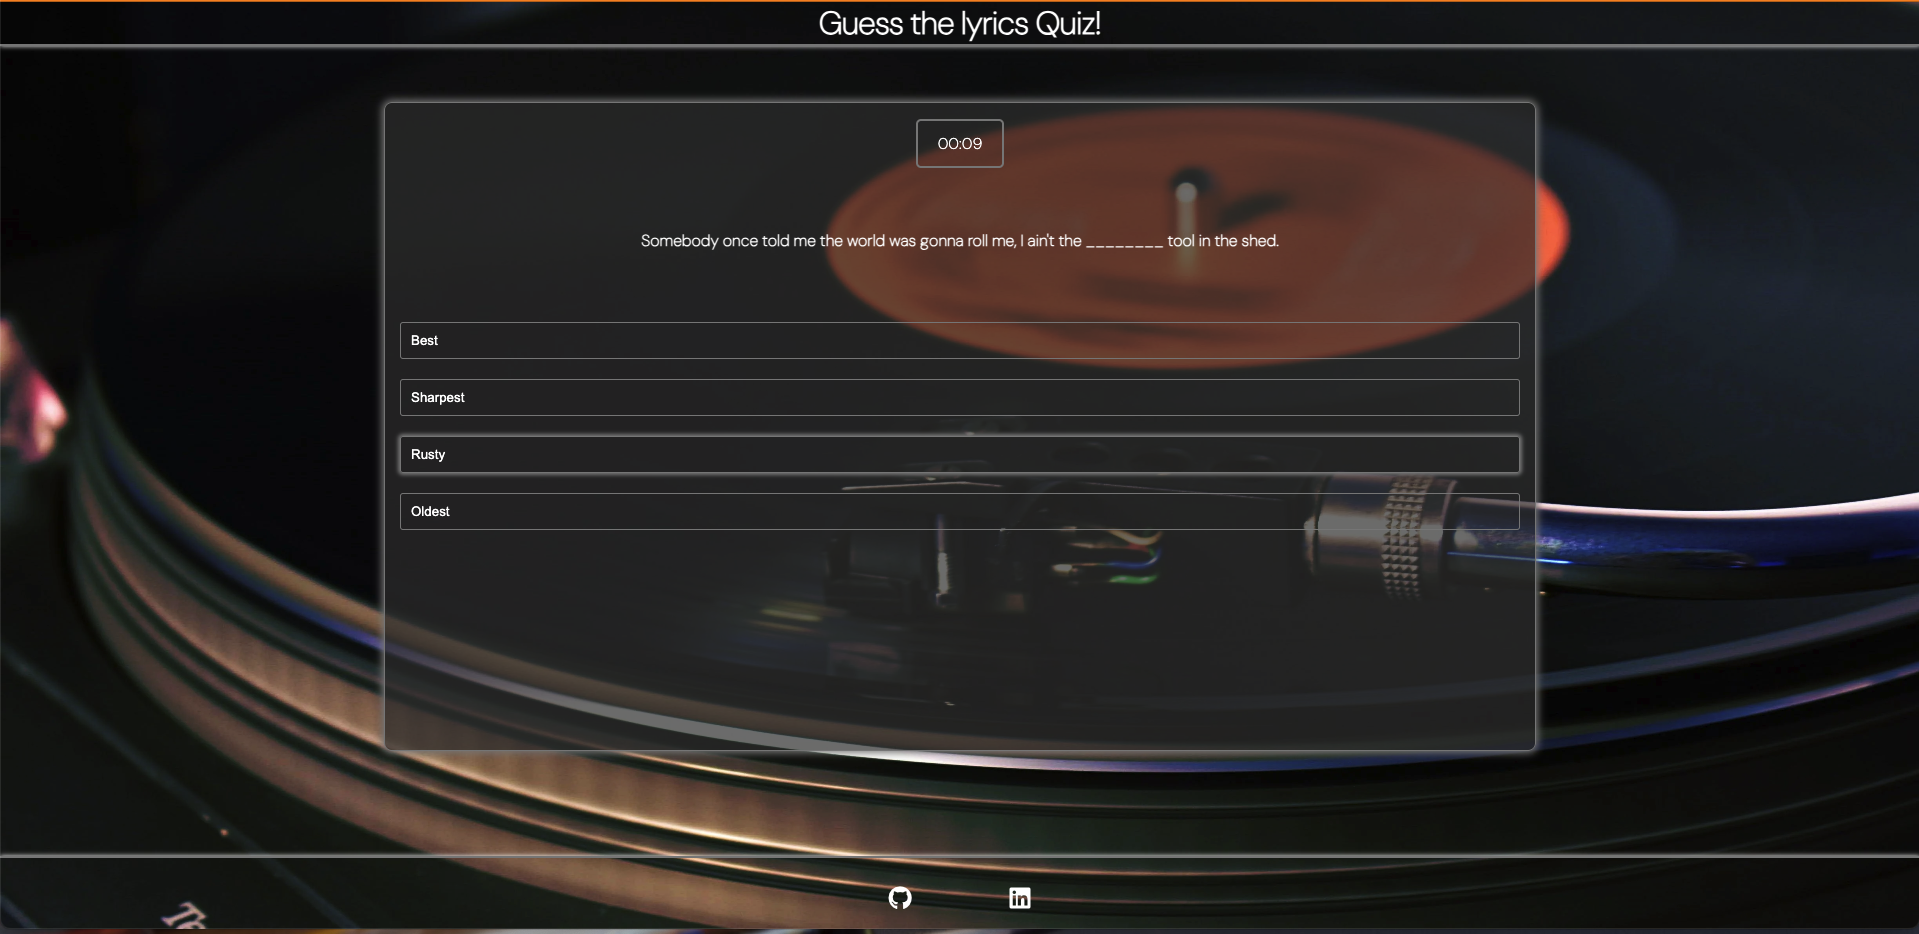
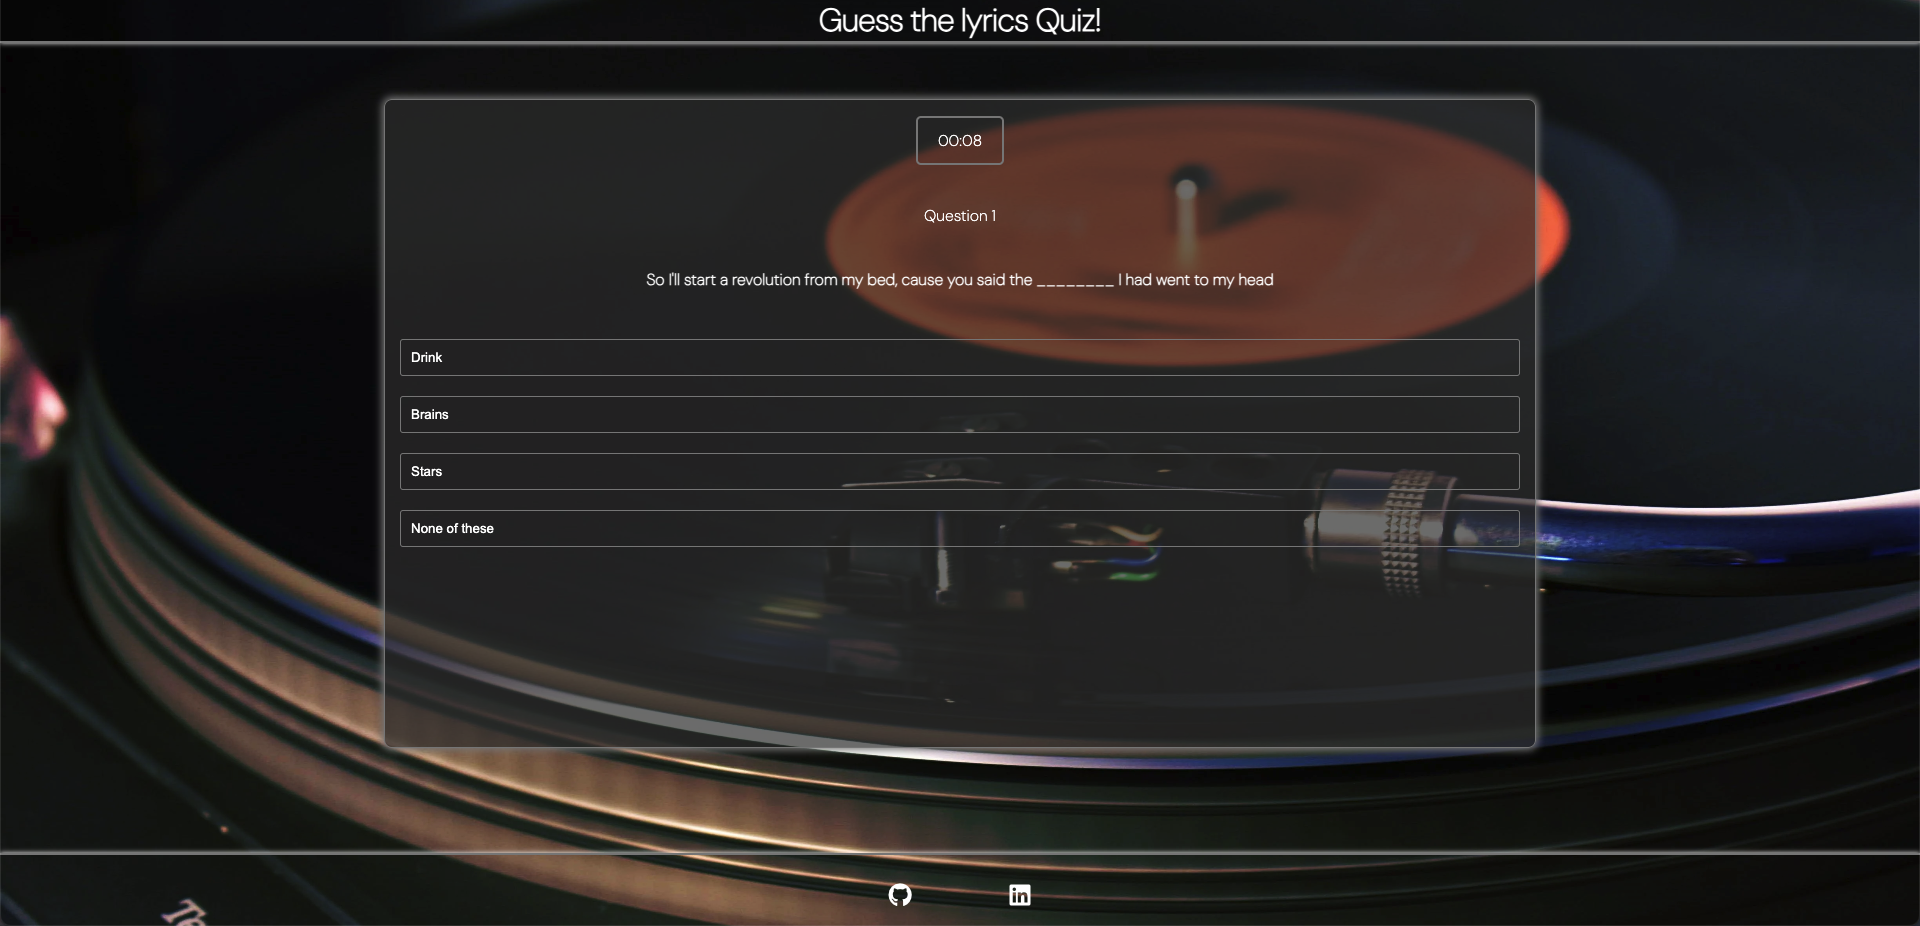
Update readme after changes to project

diff --git a/assets/css/style.css b/assets/css/style.css
@@ -146,7 +146,7 @@ ul li {
 }
 
 .submit-btn {
-    margin: 5px auto;
+    margin: 15px auto;
     border-radius: 5px;
     padding: 12px 20px;
     font-size: 100%;
@@ -156,7 +156,7 @@ ul li {
 }
 
 .submit-btn:hover {
-    margin: 5px auto;
+    margin: 15px auto;
     border-radius: 5px;
     padding: 12px 20px;
     font-size: 100%;

diff --git a/README.md b/README.md
@@ -68,12 +68,13 @@ The live link can be found here - [Guess The Lyrics Quiz](https://philtipping31.
 - The header is still visible, allowing a user to go back to the home page at any time during the quiz.
 - Question is displayed along with the answers.
 - Timer is shown at the top of the quiz container and increments in seconds as the user stays playing the quiz.
+- The question number is shown and will increase by one for each question.
 
 ### The Question and Answers
 
 - Initially the first question (lyrics) will display with 4 options for the user to choose from to complete the lyrics.
 
-![Questions](docs/question-no-next-btn.png)
+![Questions](docs/questions.png)
   
 - The answer buttons all have the same hover effect as other buttons on the site, showing the user they can interact with them.
 
@@ -81,16 +82,13 @@ The live link can be found here - [Guess The Lyrics Quiz](https://philtipping31.
 
 - Once an answer has been selected the answer selected will either highlight 'green' for correct or 'red' for incorrect.
 - If an incorrect answer is selected the correct answer will be highlighted in green so the user can see the option they should have picked to get the answer correct.
+- After an answer has been selected, all other options will be disabled. This is to stop the user being able to select a different answer after their first guess.
+- After an answer has been selected, the 'Next' button will appear, allowing the user to click and navigate to the next question.
 
 ![Correct Answer](docs/correct-answer.png)
 
 ![Incorrect Answer](docs/incorrect-answer.png)
 
-
-- After an answer has been selected, all other options will be disabled. This is to stop the user being able to select a different answer after their first guess.
-- After an answer has been selected, the 'Next' button will appear, allowing the user to click and navigate to the next question.
-
-![Questions with Next](docs/questions-with-next-btn.png)
 
 ## Timer
 
@@ -173,14 +171,16 @@ All browsers show the page correctly and as intended.
 
 ### Quiz Page
 
-| Does a total of 10 questions display. After the 10th question, scores page is shown.               | Run through the quiz multiple times and check that 10 questions display before the quiz ends.                                                                                                                                                  | 10 questions are shown at random from the js file. After the 10th question the scores are shown.                              | Pass |
-| -------------------------------------------------------------------------------------------------- | ---------------------------------------------------------------------------------------------------------------------------------------------------------------------------------------------------------------------------------------------- | ----------------------------------------------------------------------------------------------------------------------------- | ---- |
-| Can the user choose from all 4 answers when the question is displayed                              | Load each question and check each answer is clickable. Repeat process for all 10 questions                                                                                                                                                     | The user can select from one of the 4 options each time a question is displayed. All options begin clickable.                 | Pass |
-| When an answer is selected, does the correct answer and incorrect answer highlight correctly.      | Select a correct answer to see if it highlights correctly. Select an incorrect answer and see if it highlights correctly as well as showing the user the correct answer.                                                                       | Correct answers show in green and incorrect answers show in red as well as show the user the correct answer in green.         | Pass |
-| Once an answer is selected are all other answers disabled so the user can no longer click on them? | Select an answer and attempt to select another one.                                                                                                                                                                                            | Once answer is selected, the user can no longer select another option                                                         | Pass |
-| When an answer is selected, does the next button appear                                            | Select an answer and see the next button appear to go to the next question                                                                                                                                                                     | The Next button appears correctly after an answer is selected                                                                 | Pass |
-| Does clicking the next button load a new question and answers                                      | Click Next and see if the next question shows with the answer options linked to it.                                                                                                                                                            | After clicking next, the next question in the index is loaded with all of the answer options linked to that specific question | Pass |
-| Does the timer show and increment during the quiz                                                  | Play the quiz, and check that the timer displays. Also wait until 59 seconds are up to check the timer then goes to minutes and then increments the seconds again, When it gets to the next 59 seconds, ensure that the minute is incremented. | Timer shows and counts correctly.                                                                                             | Pass |
+| Test                                                                                               | Action                                                                                                                                                                                                                                         | Expected                                                                                                                      | Result |
+| -------------------------------------------------------------------------------------------------- | ---------------------------------------------------------------------------------------------------------------------------------------------------------------------------------------------------------------------------------------------- | ----------------------------------------------------------------------------------------------------------------------------- | ------ |
+| Does a total of 10 questions display. After the 10th question, scores page is shown.               | Run through the quiz multiple times and check that 10 questions display before the quiz ends.                                                                                                                                                  | 10 questions are shown at random from the js file. After the 10th question the scores are shown.                              | Pass   |
+| Can the user choose from all 4 answers when the question is displayed                              | Load each question and check each answer is clickable. Repeat process for all 10 questions                                                                                                                                                     | The user can select from one of the 4 options each time a question is displayed. All options begin clickable.                 | Pass   |
+| When an answer is selected, does the correct answer and incorrect answer highlight correctly.      | Select a correct answer to see if it highlights correctly. Select an incorrect answer and see if it highlights correctly as well as showing the user the correct answer.                                                                       | Correct answers show in green and incorrect answers show in red as well as show the user the correct answer in green.         | Pass   |
+| Once an answer is selected are all other answers disabled so the user can no longer click on them? | Select an answer and attempt to select another one.                                                                                                                                                                                            | Once answer is selected, the user can no longer select another option                                                         | Pass   |
+| When an answer is selected, does the next button appear                                            | Select an answer and see the next button appear to go to the next question                                                                                                                                                                     | The Next button appears correctly after an answer is selected                                                                 | Pass   |
+| Does clicking the next button load a new question and answers                                      | Click Next and see if the next question shows with the answer options linked to it.                                                                                                                                                            | After clicking next, the next question in the index is loaded with all of the answer options linked to that specific question | Pass   |
+| Does the timer show and increment during the quiz                                                  | Play the quiz, and check that the timer displays. Also wait until 59 seconds are up to check the timer then goes to minutes and then increments the seconds again, When it gets to the next 59 seconds, ensure that the minute is incremented. | Timer shows and counts correctly.                                                                                             | Pass   |
+| Does the question number appear i.e Question 1 and then increment for each question correctly.     | Run through the quiz and ensure the question number correct goes through from 1 - 10                                                                                                                                                           | Question number shows correctly throughout and increments correctly.                                                          | Pass   |                                                                                           | Pass |
 
 ### Scores Page
 
